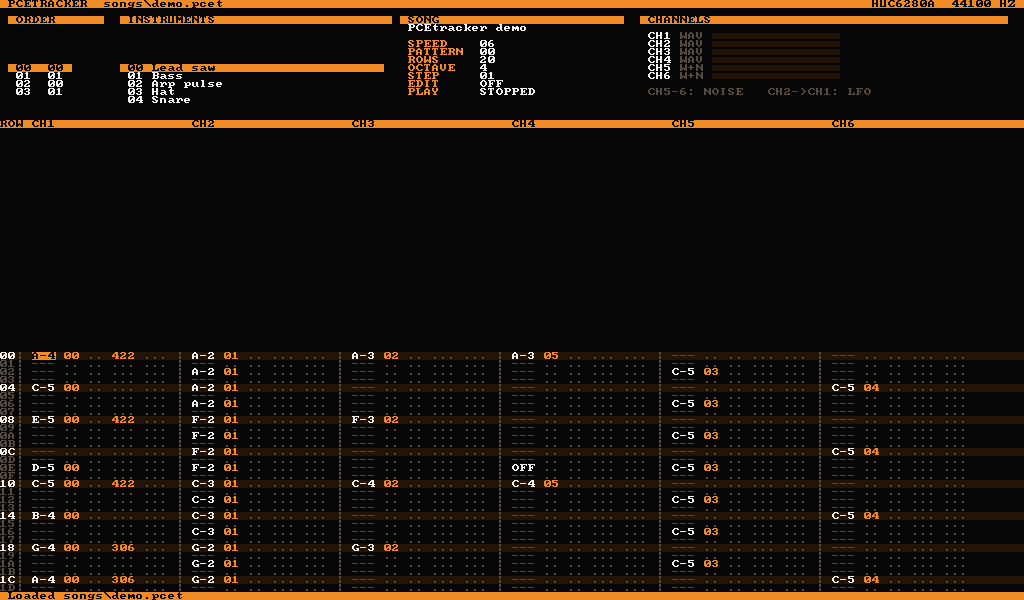
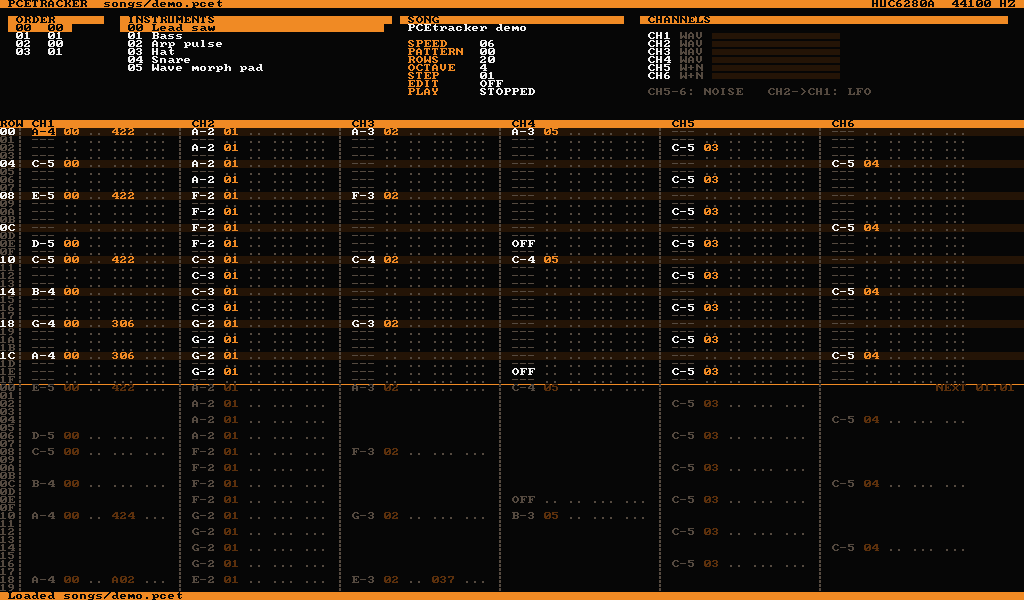
UI: no wasted space in the pattern view
- lists scroll only when needed: pattern, orders and instruments start at the
  top instead of keeping the cursor centered
- rows after the end of a short pattern preview the next order's pattern
  (dimmed, with a NEXT marker)

Changed region(s): [[0.0, 0.21, 1.0, 0.99], [0.0, 0.03, 0.375, 0.18]]

diff --git a/src/ui/app.cpp b/src/ui/app.cpp
@@ -30,6 +30,19 @@ struct Guard {
   ~Guard() { if (d) SDL_UnlockAudioDevice(d); }
 };
 
+// First visible item of a list: starts at the top, scrolls only when the
+// cursor would leave the middle, never shows empty space after the end.
+int listTop(int cursor, int count, int visible) {
+  if (count <= visible) return 0;
+  int t = cursor - visible / 2;
+  if (t < 0) t = 0;
+  if (t > count - visible) t = count - visible;
+  return t;
+}
+
+const int kPatVisible = kPatBottom - kPatTop + 1;
+const int kListVisible = kPanelRows - 1;
+
 std::string hex2(int v) {
   char b[4];
   snprintf(b, sizeof b, "%02X", v & 0xFF);
@@ -478,8 +491,7 @@ void App::handleMouse(const SDL_Event& e) {
     int col = -1;
     for (int c = 0; c < COL_COUNT; ++c) if (off >= kColOff[c] && off < kColOff[c] + kColW[c]) col = c;
     if (col < 0) col = COL_NOTE;
-    int center = (kPatTop + kPatBottom) / 2;
-    int row = editor_.row() + (cy - center);
+    int row = listTop(editor_.row(), editor_.pattern().rows, kPatVisible) + (cy - kPatTop);
     if (row >= 0 && row < editor_.pattern().rows) {
       editor_.clearSelection();
       editor_.setCursor(row, ch, col);
@@ -488,14 +500,13 @@ void App::handleMouse(const SDL_Event& e) {
   }
   // Order list
   if (cx >= 1 && cx < 13 && cy >= kTopRow + 1 && cy < kTopRow + kPanelRows) {
-    int center = kTopRow + 1 + (kPanelRows - 1) / 2;
-    editor_.setOrder(editor_.order() + (cy - center));
+    int o = listTop(editor_.order(), (int)song_.orders.size(), kListVisible) + (cy - kTopRow - 1);
+    if (o < (int)song_.orders.size()) editor_.setOrder(o);
     return;
   }
   // Instrument list
   if (cx >= 15 && cx < 48 && cy >= kTopRow + 1 && cy < kTopRow + kPanelRows) {
-    int center = kTopRow + 1 + (kPanelRows - 1) / 2;
-    int i = editor_.instrument + (cy - center);
+    int i = listTop(editor_.instrument, (int)song_.instruments.size(), kListVisible) + (cy - kTopRow - 1);
     if (i >= 0 && i < (int)song_.instruments.size()) editor_.instrument = i;
   }
 }
@@ -528,9 +539,9 @@ void App::drawHeader() {
 void App::drawOrders(int x, int y, int h) {
   screen_.textBg(x, y, " ORDER      ", C_BLACK, C_ORANGE);
   int n = (int)song_.orders.size();
-  int center = (h - 1) / 2;
+  int first = listTop(editor_.order(), n, h - 1);
   for (int i = 0; i < h - 1; ++i) {
-    int o = editor_.order() + i - center;
+    int o = first + i;
     if (o < 0 || o >= n) continue;
     char b[16];
     snprintf(b, sizeof b, " %02X  %02X ", o, song_.orders[o]);
@@ -544,9 +555,9 @@ void App::drawOrders(int x, int y, int h) {
 void App::drawInstruments(int x, int y, int h) {
   screen_.textBg(x, y, " INSTRUMENTS                      ", C_BLACK, C_ORANGE);
   int n = (int)song_.instruments.size();
-  int center = (h - 1) / 2;
+  int first = listTop(editor_.instrument, n, h - 1);
   for (int i = 0; i < h - 1; ++i) {
-    int k = editor_.instrument + i - center;
+    int k = first + i;
     if (k < 0 || k >= n) continue;
     char b[48];
     snprintf(b, sizeof b, " %02X %-29.29s", k, song_.instruments[k].name.c_str());
@@ -607,40 +618,64 @@ void App::drawPattern(int top, int bottom) {
   }
 
   const Pattern& p = editor_.pattern();
-  const int center = (top + bottom) / 2;
+  const int first = listTop(editor_.row(), p.rows, bottom - top + 1);
+  const int center = top + (editor_.row() - first); // screen row of the cursor
   int r0, c0, r1, c1;
   editor_.selectionRect(&r0, &c0, &r1, &c1);
   const bool sel = editor_.hasSelection();
   const bool showPlay = playing_ && playOrder_ == editor_.order() &&
                         (editor_.editMode || !followPlay_);
 
-  for (int y = top; y <= bottom; ++y) {
-    int r = editor_.row() + (y - center);
-    if (r < 0 || r >= p.rows) continue;
-    // Row background: cursor row, beat rows (every 4), play position.
-    if (y == center) screen_.fill(0, y, kCols, 1, editor_.editMode ? C_ORANGE_MID : C_ORANGE_DK);
-    else if (showPlay && r == playRow_) screen_.fill(0, y, kCols, 1, C_ORANGE_DK);
-    else if (r % 4 == 0) screen_.fill(0, y, kCols, 1, C_ORANGE_DK);
-    if (sel && r >= r0 && r <= r1)
-      screen_.fill(kChanX0 + c0 * kChanW, y, (c1 - c0) * kChanW + 17, 1, C_ORANGE_MID);
+  // Rows after the end of the pattern show the next order's pattern, dimmed.
+  const int nextOrder = (editor_.order() + 1) % (int)song_.orders.size();
+  const int nextIdx = song_.orders[nextOrder];
+  const Pattern* next = nextIdx < (int)song_.patterns.size() ? &song_.patterns[nextIdx] : 0;
 
-    screen_.text(0, y, hex2(r).c_str(), r % 4 == 0 ? C_WHITE : C_DIM);
+  for (int y = top; y <= bottom; ++y) {
+    int r = first + (y - top);
+    if (r < 0) continue;
+    const bool preview = r >= p.rows;
+    const Pattern* src = &p;
+    int sr = r;
+    if (preview) {
+      if (!next || r - p.rows >= next->rows) continue;
+      src = next;
+      sr = r - p.rows;
+      if (sr == 0) {
+        screen_.fillPx(0, y * kCell, kScreenW, 1, C_ORANGE);
+        char b[32];
+        snprintf(b, sizeof b, "NEXT %02X:%02X", nextOrder, nextIdx);
+        screen_.text(kCols - 11, y, b, C_ORANGE_MID);
+      }
+    } else {
+      // Row background: cursor row, beat rows (every 4), play position.
+      if (y == center) screen_.fill(0, y, kCols, 1, editor_.editMode ? C_ORANGE_MID : C_ORANGE_DK);
+      else if (showPlay && r == playRow_) screen_.fill(0, y, kCols, 1, C_ORANGE_DK);
+      else if (r % 4 == 0) screen_.fill(0, y, kCols, 1, C_ORANGE_DK);
+      if (sel && r >= r0 && r <= r1)
+        screen_.fill(kChanX0 + c0 * kChanW, y, (c1 - c0) * kChanW + 17, 1, C_ORANGE_MID);
+    }
+    const Color white = preview ? C_DIM : C_WHITE;
+    const Color orange = preview ? C_ORANGE_MID : C_ORANGE;
+
+    screen_.text(0, y, hex2(sr).c_str(), (sr % 4 == 0 && !preview) ? C_WHITE : C_DIM);
     for (int c = 0; c < kChannels; ++c) {
-      const Cell& cell = p.at(r, c);
+      const Cell& cell = src->at(sr, c);
       int x = kChanX0 + c * kChanW;
       screen_.glyph(x - 2, y, '|', C_DIM);
+      if (preview && cell.empty()) continue;
       std::string note = noteName(cell.note);
-      screen_.text(x, y, note.c_str(), cell.note == NOTE_NONE ? C_DIM : C_WHITE);
+      screen_.text(x, y, note.c_str(), cell.note == NOTE_NONE ? C_DIM : white);
       screen_.text(x + 4, y, cell.instrument == INST_NONE ? ".." : hex2(cell.instrument).c_str(),
-                   cell.instrument == INST_NONE ? C_DIM : C_ORANGE);
+                   cell.instrument == INST_NONE ? C_DIM : orange);
       screen_.text(x + 7, y, cell.volume == VOL_NONE ? ".." : hex2(cell.volume).c_str(),
-                   cell.volume == VOL_NONE ? C_DIM : C_ORANGE);
+                   cell.volume == VOL_NONE ? C_DIM : orange);
       for (int f = 0; f < kEffectColumns; ++f) {
         int fx = x + 10 + f * 4;
         if (cell.fx[f].cmd) {
           char b[4] = { (char)cell.fx[f].cmd, 0, 0, 0 };
-          screen_.text(fx, y, b, C_ORANGE);
-          screen_.text(fx + 1, y, hex2(cell.fx[f].param).c_str(), C_ORANGE);
+          screen_.text(fx, y, b, orange);
+          screen_.text(fx + 1, y, hex2(cell.fx[f].param).c_str(), orange);
         } else {
           screen_.text(fx, y, "...", C_DIM);
         }
